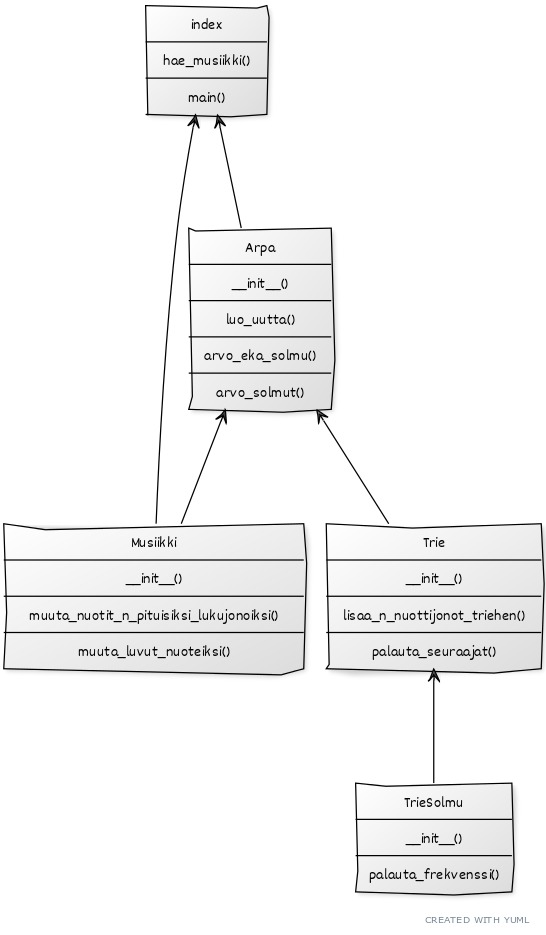
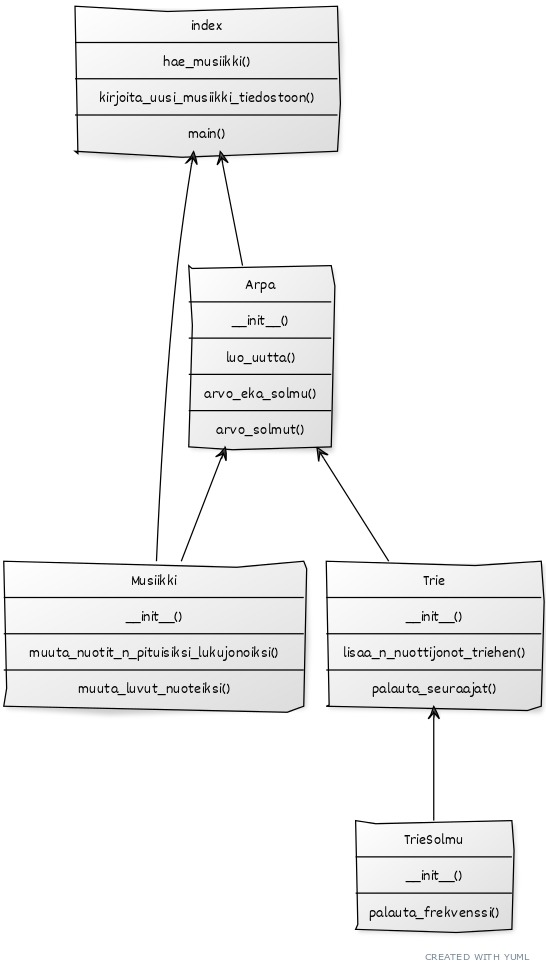
Loppupalautus

diff --git a/src/index.py b/src/index.py
@@ -3,7 +3,7 @@ from arpa import Arpa
 
 m = Musiikki()
 
-n = 3 # yksittäisen ennustettavan nuottijonon pituus
+n = 3 # yksittäisen ennustettavan nuottijonon pituus (ennustetaan n-1 edeltävän nuotin perusteella)
 a = Arpa(n)
 
 def hae_musiikki():
@@ -19,7 +19,6 @@ def hae_musiikki():
     # Tuodaan musiikki tekstitiedostosta.
     with open("musiikki_kipale.txt", "r") as musiikki_kipale:
         sisalto = musiikki_kipale.readlines() #tuodaan abc-notaatio riveittäin listana
-        print(f"sisalto 1: {sisalto}")
 
     # Luodaan lista, jossa pelkät nuotit (muu notaatio poistettu).
     for rivinumero in range(len(sisalto)):
@@ -27,7 +26,7 @@ def hae_musiikki():
             rivinumero_jalkeen = rivinumero + 1
         if rivinumero >= rivinumero_jalkeen:
             sisalto2.append(sisalto[rivinumero])
-   
+
     # Luodaan lista, jossa turhat merkit poistettu.
     for rivinumero2 in range(len(sisalto2)):
         rivi = sisalto2[rivinumero2]
@@ -39,7 +38,6 @@ def hae_musiikki():
         rivi = rivi.replace("4", "") #Limitation
         rivi = rivi.replace("\n", "")
         sisalto3.append(rivi)
-        print(f"sisalto3: {sisalto3}")
 
     # Luodaan lista, jolla eri rivien nuottimerkit perätysten.
     sisalto4 = ''.join(sisalto3)
@@ -79,7 +77,12 @@ def hae_musiikki():
                 sisalto5.append(nuottijono[1])
     return sisalto5
 
-def kirjoita_uusi_musiikki_tiedostoon(uusi_musiikki):
+def kirjoita_uusi_musiikki_tiedostoon(uusi_musiikki: str):
+    """Kirjoittaa uuden luodun musiikkikappaleen tekstitiedostoon abc-muotoon.
+
+    Args:
+        uusi_musiikki: Luodun musiikkikappaleen nuotit kirjaimina (string).
+    """
     tekstiosuus = ""
     with open("musiikki_kipale.txt", "r") as musiikki_kipale:
         sisalto = musiikki_kipale.readlines() #tuodaan abc-notaatio riveittäin listana
@@ -87,13 +90,14 @@ def kirjoita_uusi_musiikki_tiedostoon(uusi_musiikki):
             tekstiosuus += sisalto[rivinumero]
             if sisalto[rivinumero][0] == "K":
                 tekstiosuus += uusi_musiikki
-                print(f"tekstiosuus: {tekstiosuus}")
                 break
 
     with open('uusi_musiikki.txt', 'w') as uusi_musa:
         uusi_musa.write(tekstiosuus) #(uusi_musiikki)
 
 def main():
+    """Suorittaa ohjelman.
+    """
     pituus = 100 # luotavan musiikkikappaleen pituus eli nuottien määrä
     abc_nuotit = hae_musiikki()
     luotu_musiikkikappale_lukuina = a.luo_uutta(abc_nuotit, pituus)
@@ -104,7 +108,6 @@ def main():
         uusi_nuottijono = ""
         for nuotti in luotu_musiikkikappale_abc:
             uusi_nuottijono += nuotti + " "
-        print(f"ohjelman tuottama uusi musiikkikipale: {uusi_nuottijono}; pituus: {len(luotu_musiikkikappale_abc)}/{pituus}")
 
     kirjoita_uusi_musiikki_tiedostoon(uusi_nuottijono)
 

diff --git a/src/arpa.py b/src/arpa.py
@@ -6,18 +6,18 @@ t = Trie()
 m = Musiikki()
 
 class Arpa:
-    """Luokka arvonnalle.
+    """Luokka uuden luotavan musiikin nuottien arvonnalle.
     """
 
     def __init__(self, n):
         self.n = n #nuottiosajonon pituus
 
-    def luo_uutta(self, abc_nuotit, pituus):
+    def luo_uutta(self, abc_nuotit: list, pituus: int):
         """Suorittaa tarvittavat metodit, jotta ohjelma luo uutta musiikkia.
 
         Args:
-            abc_nuotit (list): Tuotu kappale listana nuottikirjaimia.
-            n (int): Nuottijonon pituus, jonka perusteella uutta musiikkia luodaan.
+            abc_nuotit: Tuotu kappale listana nuottikirjaimia.
+            pituus: Uuden luotavan musiikkikappaleen pituus nuotteina.
         """
         nuottijonojen_lista = m.muuta_nuotit_n_pituisiksi_lukujonoiksi(abc_nuotit, self.n)
         t.lisaa_n_nuottijonot_triehen(nuottijonojen_lista)
@@ -39,6 +39,11 @@ class Arpa:
 
     def arvo_solmut(self, pituus):
         """Arpoo seuraavat solmut ja valmistaa uuden musiikkikappaleen.
+
+        Args:
+            pituus: Uuden luotavan musiikkikappaleen pituus nuotteina.
+
+        Returns: Luodun musiikkikappaleen (lukulistana).
         """
         eka_solmu = self.arvo_eka_solmu()
         nuottijono = []
@@ -59,5 +64,4 @@ class Arpa:
 
             musiikkikappale.append(seuraava_solmu)
 
-        print(f"lopullinen kipale: {musiikkikappale}")
         return musiikkikappale

diff --git a/src/trie.py b/src/trie.py
@@ -11,7 +11,7 @@ class Trie:
         """Lisää n-pituisen nuottijonon trie-rakenteeseen.
 
         Args:
-            n_nuottijonojen_lista (list): Lista, jossa kaikki
+            n_nuottijonojen_lista: Lista, jossa kaikki
             musiikkikappaleen n-pituiset nuottijonot.
         """
         for nuottijono in n_nuottijonojen_lista:
@@ -31,10 +31,11 @@ class Trie:
         """Metodi etsii annetun nuottijonon viimeisen nuotin lapsisolmut ja palauttaa ne.
 
         Args:
-            nuottijono (list): nuottijonon n - 1 edellistä nuottia
+            nuottijono: Annetun nuottijonon n - 1 edellistä nuottia
 
         Returns:
-            list: Palauttaa listan mahdollisista seuraavista nuoteista/solmuista.
+            list: Palauttaa listan mahdollisista seuraavista nuoteista/solmuista
+            ja sellaisten nuottijonojen frekvenssin alkuperäisessä musiikkikappaleessa.
         """
         solmu = self.juuri
         seuraajat = []

diff --git a/src/musiikki.py b/src/musiikki.py
@@ -50,8 +50,8 @@ class Musiikki:
             osajonoihin.
 
         Args:
-            abc_nuotit (list): Abc-nuottikirjaimet listana.
-            n (int): Haluttu osajonon pituus.
+            abc_nuotit: Abc-nuottikirjaimet listana.
+            n: Haluttu osajonon pituus.
 
         Returns:
             list: Palauttaa alkuperäisestä kappaleesta muodostetun
@@ -81,7 +81,7 @@ class Musiikki:
         """Tämä metodi muuttaa luvut takaisin nuoteiksi (kirjaimiksi).
 
         Args:
-            uusi_musiikki list: Algoritmin rakentama uusi musiikki listana.
+            uusi_musiikki: Algoritmin rakentama uusi musiikki listana.
 
         Returns:
             list: Palauttaa listan, jossa luvut on muunnettu nuottikirjaimiksi.

diff --git a/src/trie_solmu.py b/src/trie_solmu.py
@@ -2,11 +2,11 @@ class TrieSolmu:
     """Solmu trie-tietorakenteessa.
     """
 
-    def __init__(self, nuotti):
+    def __init__(self, nuotti: int):
         """Liittää solmuun lähtötiedot.
 
         Args:
-            nuotti (int): kyseisen solmun nuotti lukuna.
+            nuotti: kyseisen solmun nuotti lukuna.
         """
         self.nuotti = nuotti
         self.nuottijonon_frekvenssi = 0
@@ -19,6 +19,3 @@ class TrieSolmu:
             int: nuottijonon frekvenssi
         """
         return self.nuottijonon_frekvenssi
-
-    #def palauta_lapsisolmut(self):
-    #    return self.lapsisolmut

diff --git a/src/tests/trie_test.py b/src/tests/trie_test.py
@@ -18,12 +18,4 @@ class TestTrie(unittest.TestCase):
 
     def test_nuottijonon_lisäys_triehen_toimii(self):
         pass
-        #nuottijonojen_lista = [[1,3,5], [1,4,5],[1,6,8]]
-        #ykkosen_lapsisolmut = []
-        #t.lisaa_n_nuottijonot_triehen(nuottijonojen_lista)
-        #for key, value in t.juuri.lapsisolmut.items():
-        #    if key == 1:
-        #        ykkosen_lapsisolmut = value #??? Miksi tämä ei ole lapsisolmut listana???
-
-        #self.assertEqual(ykkosen_lapsisolmut,
-        #    [3,4,6])
+    

diff --git a/dokumentaatio/maarittelydokumentti.md b/dokumentaatio/maarittelydokumentti.md
@@ -16,15 +16,23 @@ Ohjelmassa käytetty algoritmi perustuu Markovin ketjuun. Ohjelmassa voi määri
 kuinka monen nuotin perusteella uutta musiikkia luodaan. Uusi musiikkikappale luodaan 
 Markovin ketjun ja mainitun muuttujan perusteella eli alkuperäisen kappaleen n-pituisten nuottijonoihin
 perustuen luodaan uutta musiikkia n-pituinen nuottijono kerrallaan (arpomalla). Tässä
-käytetään hyväksi trie-tietorakennetta. Trie:n juurisolmusta lähtee n-pituiset nuottijonot
+käytetään hyväksi trie-tietorakennetta. Trien juurisolmusta lähtee n-pituiset nuottijonot
 lapsisolmujen suuntaan. Jokainen solmu pitää kirjaa nuotista, nuottijonon frekvenssistä sekä solmun
 lapsisolmuista.
 
+Valitsin trien, koska siihen pystyy tehokkaasti tallentamaan nuottijonoja. Markovin ketjuun
+perustuva algoritmi taasen sopii uuden musiikin luomiseen, koska siinä otetaan huomioon vain edellinen
+nuottiosajono, johon voi todennäköisyyksiin perustuen aina arpoa seuraavan jäsenen. Tämä takaa,
+että uusi musiikki on (lähes) aina uutta.
+
+## Syötteet
+
+Ohjelma saa syötteenä abc-muotoisena olevan musiikkikappaleen. Katso tästä tarkemmin
+[käyttöohjeista](https://github.com/karhelmi/tiralabra/blob/master/dokumentaatio/kayttoohje.md).
+
 ## Aika- ja tilavaativuus
 
-Algoritmi, joka lisää nuottijonot trie:hen määrittää aikavaativuuden. Aikavaativuus on
-n-pituisten nuottijonojen määrä kerrottuna yhden nuottijonon nuottien määrällä. Aikavaativuus on
-täten noin O('nuottien_lukumäärä'*n). Jos 'nuottien_lukumäärä = m, niin aikavaativuus on O(mn).
+Tämä on käsitelty [toteutusdokumentissa](https://github.com/karhelmi/tiralabra/blob/master/dokumentaatio/toteutusdokumentti.md)
 
 ## Lähteet
 
@@ -32,6 +40,8 @@ täten noin O('nuottien_lukumäärä'*n). Jos 'nuottien_lukumäärä = m, niin a
 * [Sivusto abc-notaation kuunteluun](https://colinhume.com/Music.aspx)
 * [Perustietoa abc-notaatiosta](https://thecelticroom.org/abc-music-notation/abc-notation-read-and-write.html)
 * [Musiikkia abc-notaationa](https://abcnotation.com/)
+* [Markovin ketju](https://en.wikipedia.org/wiki/Markov_chain)
+* [Trie-tietorakenne](https://en.wikipedia.org/wiki/Trie)
 * [Trien rakentaminen Pythonilla](https://albertauyeung.github.io/2020/06/15/python-trie.html/)
 
 ## Opinto-ohjelmani

diff --git a/dokumentaatio/kayttoohje.md b/dokumentaatio/kayttoohje.md
@@ -14,11 +14,33 @@ Invoke työkalu on otettu käyttöön, joten voit suorittaa ohjelmaa seuraavilla
 
 ## Alkuperäinen musiikki
 
-Viikolla kuusi sinun tulee laittaa vielä abc-muotoiset nuotit manuaalisesti tiedostoon
-musiikki_kipale.txt. Jätä kunkin nuotin väliin välilyönti.
+Alkuperäinen musiikki kopioidaan ohjelman tiedostoon "musiikki_kipale.txt" abc-muotoisena.
+Lähteitä abc-musiikille ovat esimerkiksi:
+* [The Celtic Room](https://thecelticroom.org/tune-library.html)
+* [abcnotation.com](https://abcnotation.com)
+
+1. Valitse haluamasi kappale. Voit myös kuunnella, miltä se kuulostaa.
+2. Avaa sen abc-notaatio.
+3. Kopioi ja liitä teksti yllä mainittuun tiedostoon. (Jos abc-notaatio on esitetty useammalle sävellajille
+[kuten Celtic Roomissa usein on], valitse niistä vain yksi kopioitavaksi eli kopioi vain yksi
+ryhmittymä nuotteja.
+4. Tallenna tiedosto.
 
 ## Uusi musiikki
 
-[TO BE ADDED]
+Suorita ohjelma yllä mainitun komennon avulla. Suoritettuasi ohjelman,
+uusi luotu musiikki tulee tiedostoon "uusi_musiikki.txt". Uusi luotu musiikki muuttuu joka kerta,
+kun suoritat ohjelman (uudelleen).
 
-[kuuntele](https://colinhume.com/Music.aspx)
+1. Kopioi tiedoston sisältämä teksti kokonaisuudessaan.
+2. Siirry [tälle sivustolle](https://colinhume.com/Music.aspx), ja liitä
+teksti laatikkoon. Paina "Convert"-nappia. Uuden musiikin nuotit esittävällä sivulla
+voit painaa "Play MP3" -nappia, jolloin kuulet uuden musiikin.
+
+## Vinkkejä
+
+* Voit määrittää pituuden osajonoille, joiden perusteella uutta musiikkia luodaan "index.py"-
+tiedostossa rivillä 6 (n). Triessä on juurisolmun jälkeen siis näin monta kerrosta ja uutta musiikkia
+luodaan n-1 edellisen nuotin perusteella. Lähtöoletus osojonon pituudelle n on kolme. 
+* Voit määrittää uuden luotavan kappaleen pituuden "index.py"-tiedostossa main-metodissa (pituus).
+Lähtöoletus pituudelle on 100 nuottia.

diff --git a/dokumentaatio/toteutusdokumentti.md b/dokumentaatio/toteutusdokumentti.md
@@ -3,18 +3,23 @@
 ## Ohjelman yleisrakenne
 
 Ohjelmassa on neljä luokkaa:
-* musiikki
 * trie
 * trie-solmu
+* musiikki
 * arpa
 
 Alla olevassa kuvassa on esitetty ohjelman rakenne luokkakaaviona mukaan lukien luokkien metodit.
 
 ![](./kuvat/rakennekaavio.jpg)
 
-## Aika- ja tilavaativuudet
+## Aika- ja tilavaativuus
 
-Tämä kohta on [Määrittelydokumentissa](https://github.com/karhelmi/tiralabra/blob/master/dokumentaatio/maarittelydokumentti.md). Ole hyvä ja katso sieltä.
+Algoritmi, joka lisää nuottijonot triehen määrittää aikavaativuuden. Aikavaativuus on n-pituisten
+nuottijonojen määrä kerrottuna yhden nuottijonon nuottien määrällä. Aikavaativuus on täten noin
+O('nuottien_lukumäärä'*n). Jos 'nuottien_lukumäärä'=m, niin aikavaativuus on O(mn).
+atio/maarittelydokumentti.md). Ole hyvä ja katso sieltä.
+
+Tilavaativuutta en ole arvioinut.
 
 ## Suorituskyky- ja O-analyysivertailu
 
@@ -24,10 +29,11 @@ Tätä ei ole tässä työssä arvioitu.
 
 Ohjelmaa voi parantaa ainakin seuraavasti:
 
-* Abc-musiikin tuonti ja vienti ohjelmasta voisi tapahtua suoraan abc-notaatiolla. Jos musiikin
-voisi automaattisesti soittaa internetistä löytyvällä soittimella, niin se lisäisi käyttömukavuutta.
-* Käyttöliittymää voisi parantaa. Nyt tiedosto täytyy tuoda ohjelman kansioon ja mahdollisesti
-muuttaa haettavan tiedoston nimeä koodissa.
+* Jos ohjelma osaisi soittaa musiikin automaattisesti internetistä löytyvällä soittimella, 
+niin se lisäisi käyttömukavuutta.
+* Käyttöliittymää voisi parantaa. Nyt abc-musiikki pitää kopioida ohjelman tiedostoon ja uusi
+musiikki täytyy kopioida ohjelman tiedosta. Myös uuden kappaleen pituuden ja nuottiosajonon pituuden
+voisi määrittää helpommin kuin suoraan koodiin.
 * Testit voisivat olla kattavammat.
 * Voisi tutkia, onko aikavaativuutta mahdollisuus parantaa.
 

diff --git a/dokumentaatio/testausdokumentti.md b/dokumentaatio/testausdokumentti.md
@@ -2,12 +2,15 @@
 
 ## Testikattavuusraportti
 
-![](./kuvat/Coverage-raportti20220930.png)
+![](./kuvat/Coverage-raportti20221027.png)
 
-Täytyy jatkaa testien kirjoittamista ensi viikolla.
+Trielle en onnistunut tehdä testiä. Testikattavuusraportissa näyttää kuin trietäkin olisi testattu, koska
+onnistun sinne lisäämään solmuja. Sain ulos vain olion. Sen sijaan arpaluokkaa ja musiikkiluokkaa
+on testattu kattavasti: luotu musiikkikappale on toivotunmittainen, on muutettu
+nuottikirjainlistaa lukuosajonoiksi, ja nuottilukuja kirjainnuoteiksi.
 
 ## Komennot
 
-* coverage run --branch -m pytest src (testikattavuuden keräys)
-* coverage report -m (testikattavuuden raportti komentoriville)
-* coverage html (testikattavuuden raportti html-tiedostona)
+Testauksen komennot on kerrottu [käyttöohjeissa](https://github.com/karhelmi/tiralabra/blob/master/dokumentaatio/kayttoohje.md).
+Testit voidaan toistaa kuinka monta kertaa tahansa, ja tulokset ovat samat, koska olen antanut
+lähtötiedot.
